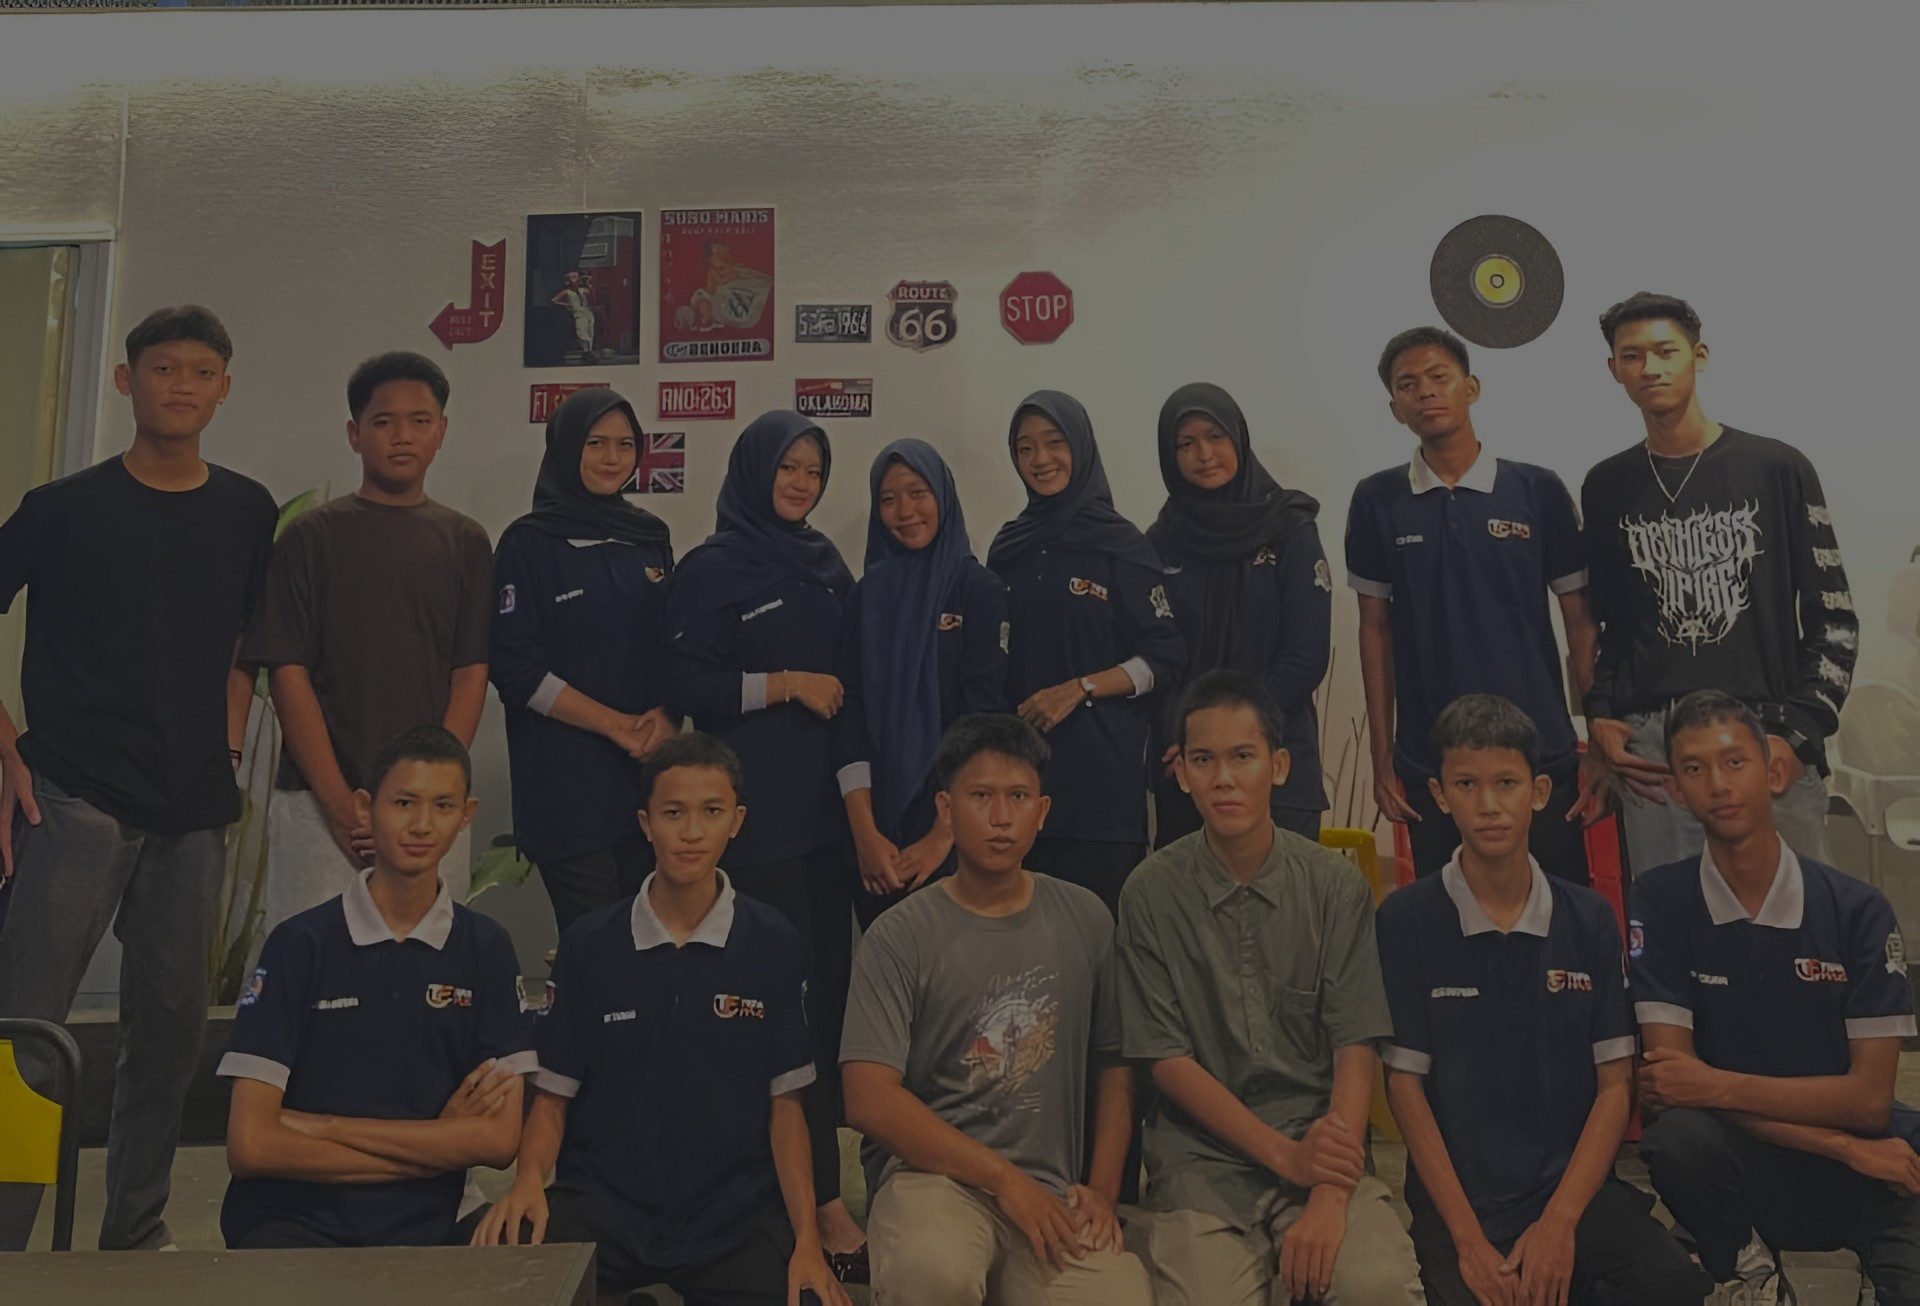
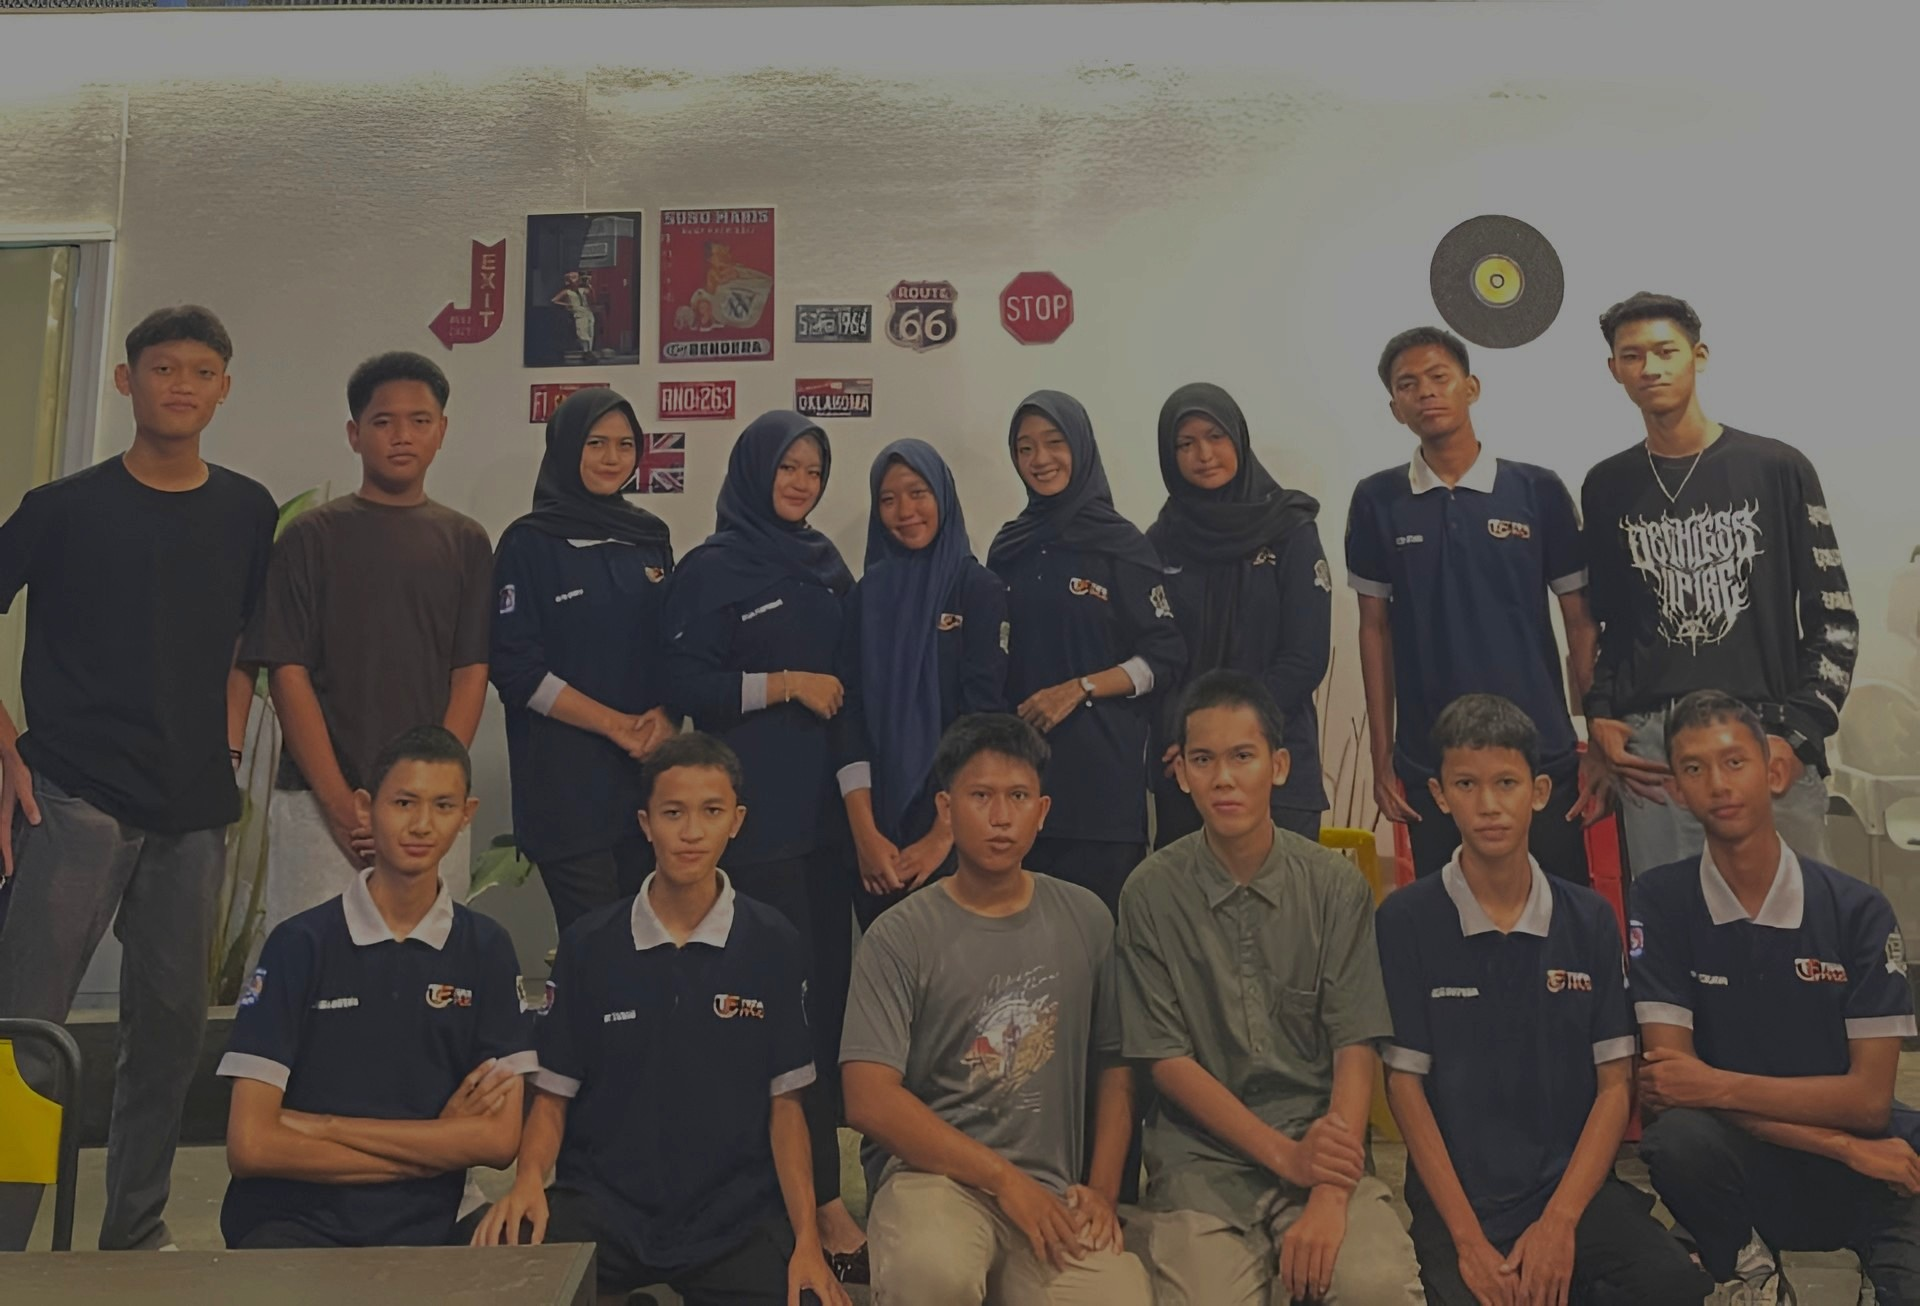
update index

diff --git a/index.html b/index.html
@@ -124,7 +124,7 @@
                 <h2>👋 Tentang Saya</h2>
                 <p>
                     Halo! Saya <span>Delia Puspitasari</span>, seorang <mark class="highlight">junior Web Developer</mark> 
-                    berbasis di <strong>Ciamis / Banjar</strong>. Saat ini saya menempuh pendidikan di 
+                    berbasis di <strong>Banjar</strong>. Saat ini saya menempuh pendidikan di 
                     <strong>SMKN 3 Banjar</strong> jurusan <strong>PPLG</strong>. Saya berdedikasi menciptakan pengalaman web yang 
                     bersih, responsif, dan interaktif dengan memadukan logika backend dan estetika frontend.
                 </p>
@@ -506,7 +506,7 @@
       <span class="exp-badge">JULI 2025 – JUNI 2027</span>
       <h3>UI/UX & Web Developer</h3>
       <h4>Teaching Factory (TEFA)</h4>
-      <p>Mengerjakan proyek nyata dari klien industri di lingkungan sekolah.</p>
+      <p>Mengerjakan proyek nyata dari klien di lingkungan sekolah.</p>
       
       <button class="btn btn-detail-gold" onclick="openExpModal(
         'Detail Kegiatan',
